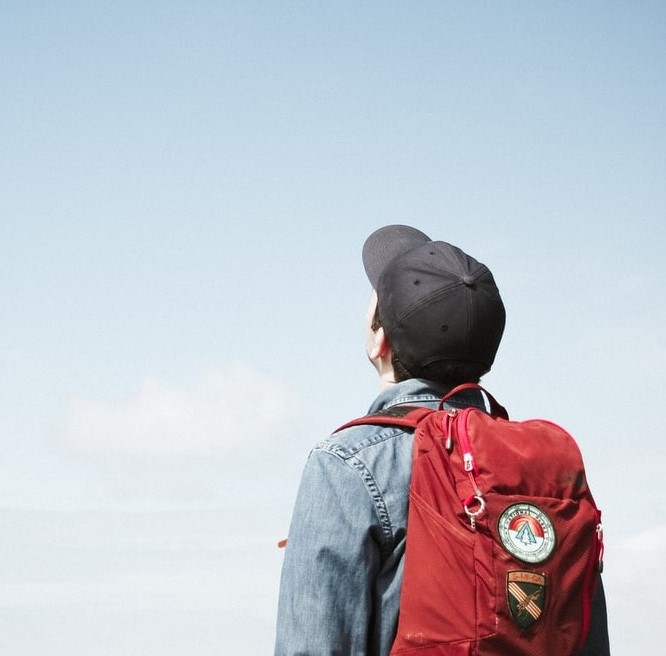
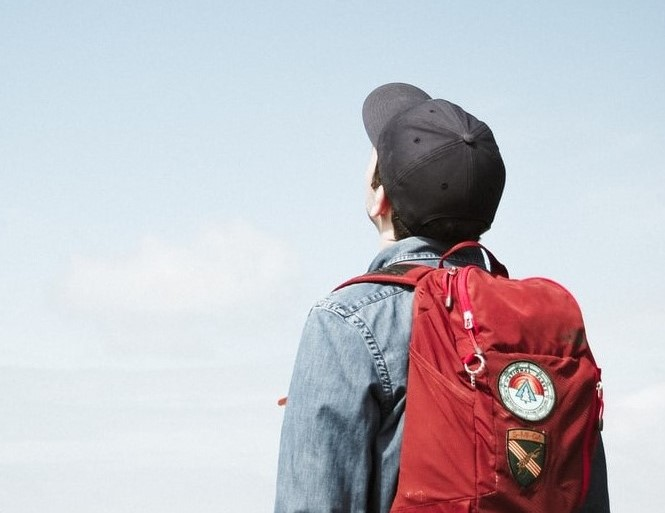
background upated

diff --git a/index.html b/index.html
@@ -18,12 +18,12 @@
         </div>
         <div class="content-wrap pt-5 typewriter text-center">
           <h2 style="color:#6200ff;" class="pt-5"><b>JOIN THE MENTORSHIP, BE THE EXPERT</b></h1>  
-          <h3 style="color:#867676;" class="pt-3"><b>From Zero to Hero</b></h2>
+          <h3 style="color:#423c3c;" class="pt-3"><b>From Zero to Hero</b></h2>
         </div>
   </div>
 
   <div id="programs" style="padding-top: 40px">
-        <h2 class="text-center"><a href="#" style="color:#3700ff">OUR PROGRAMS<a></h2>
+        <h2 class="text-center"><a href="#" style="color:white">OUR PROGRAMS<a></h2>
         <div class="card-deck m-5">
         <div class="col-md-6 col-lg-6 col-xl-3 col-sm-12 p-3">
         <div class="card programCards" id="card1">
@@ -71,7 +71,7 @@
 
 <div id="form" style="padding-top: 40px">
 <div class="formbody" id="mentorForm">
-  <h3 class="text-center" style="color:#3700ff;"><b>Join as a Mentor</b></h3>
+  <h3 class="text-center" style="color:white;"><b>Join as a Mentor</b></h3>
   <form class="m-5">
     <div class="form-group row">
         <label for="name" class="col-sm-2 col-form-label" style="color:white;">Name</label>
@@ -123,7 +123,7 @@
 </div>
 
 <div id="testimonials" style="padding-top: 40px">
-        <h2 class="text-center"><a href="#" style="color:#2f00ff;">Student Testimonials<a></h2>
+        <h2 class="text-center"><a href="#" style="color:#d0cddb;">Student Testimonials<a></h2>
         <div class="card-deck m-5">
         <div class="col-md-6 col-lg-3 col-sm-12 p-3">
         <div class="card ">

diff --git a/style.css b/style.css
@@ -3,7 +3,7 @@ html {
   scroll-behavior: smooth;
 }
 #home {
-  height: 100vh;
+  height: 120vh;
   background-image: url("./Images/bii.jpg");
   background-repeat: no-repeat;
   background-size: cover;
@@ -76,7 +76,7 @@ h3 {
 }
 
 .button {
-  background-color: #4caf50;
+  background-color: blue;
   border: none;
   color: white;
   padding: 6px;
@@ -87,31 +87,28 @@ h3 {
   border-radius: 15px;
 }
 #form {
-  /*  background-image: url('Images/form.jpg');
-   background-repeat: no-repeat;
-  background-size: cover;*/
   padding: 20px;
-  background-color: black;
+  background-color: grey;
   margin-left: 3px;
   margin-right: 3px;
 }
 .formbody {
   margin: 10px;
   padding: 10px;
-  border: 2px solid orange;
+  border: 2px solid black;
   border-radius: 20px;
 }
 
 #programs {
   padding: 10px;
   height: auto;
-  background-color: black;
+  background-color: grey;
   margin-left: 3px;
   margin-right: 3px;
 }
 
 #testimonials {
-  background-color: black;
+  background-color: #343434;
   margin-left: 3px;
   margin-right: 3px;
 }
